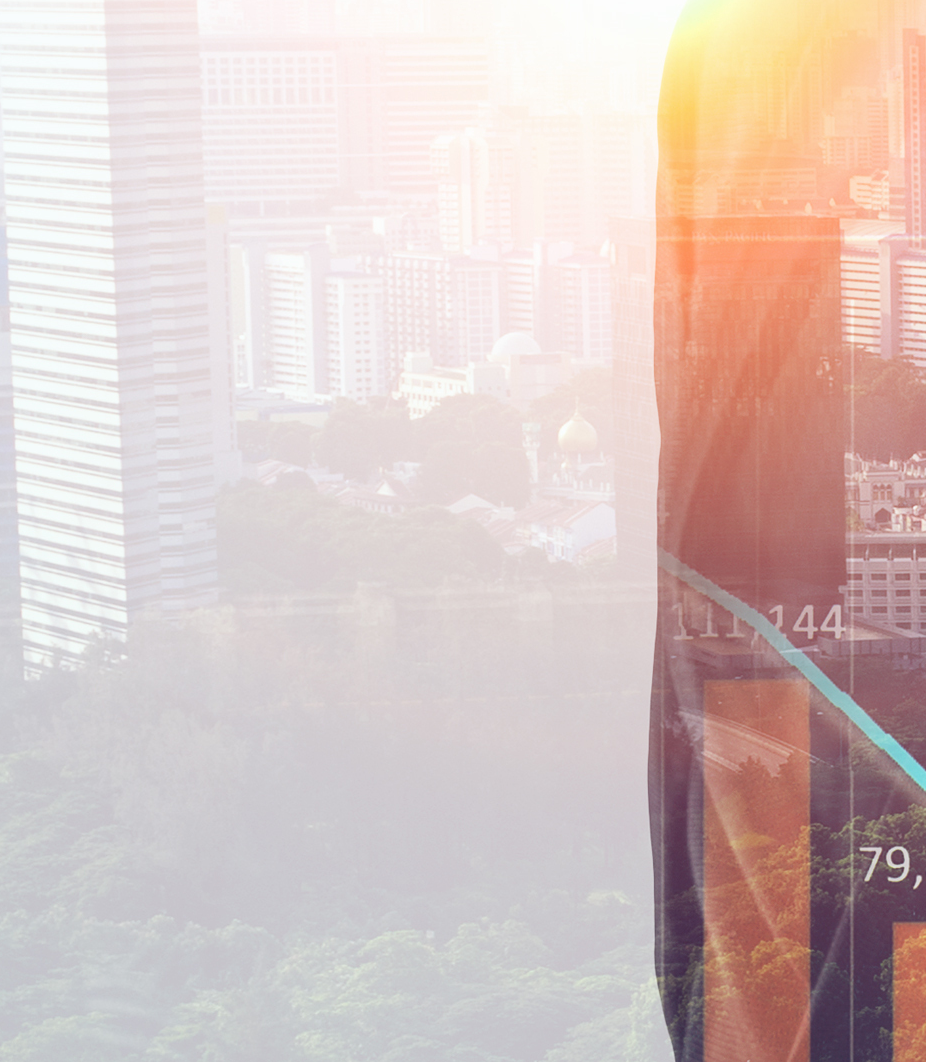
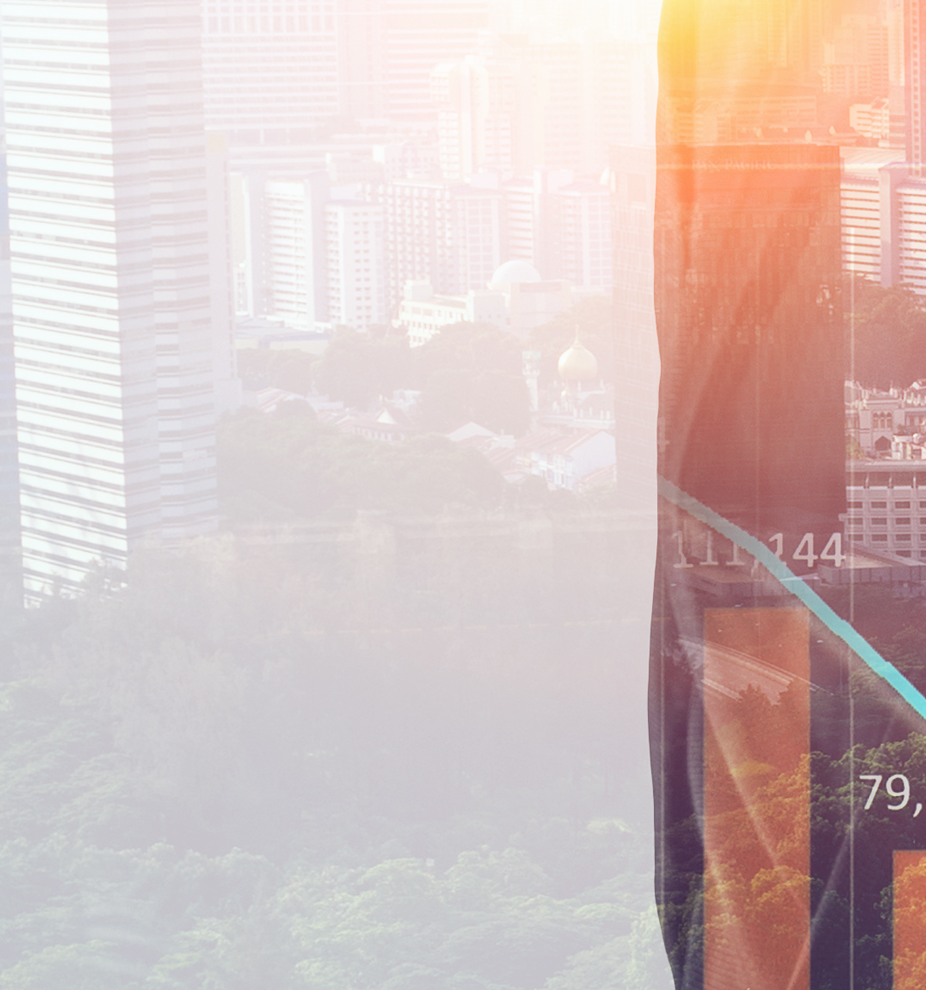
kropovane slike 1.png 2.png 3.png

diff --git a/public/assets/css/style.css b/public/assets/css/style.css
@@ -1070,6 +1070,7 @@ button.orange_btn:hover {
     height: 580px;
     padding-top: 150px;
     background-image: url('../../images/web/pen-testing-bg-image.jpg');
+    background-attachment: fixed;
     background-repeat: no-repeat;
     background-position: center;
     background-size: cover;

diff --git a/resources/views/inc/header.blade.php b/resources/views/inc/header.blade.php
@@ -70,7 +70,7 @@
                                         <ul>
                                             <p>COMPANY OVERVIEW</p>
                                             <li><a href="#">Why Us?</a></li>
-                                            <li><a href="#">Careers</a></li>
+                                            <li><a href="/careers">Careers</a></li>
                                             <li><a href="/contact">Contact</a></li>
                                             <li><a href="#">Office Locations</a></li>
                                         </ul>
@@ -98,9 +98,9 @@
                                     <div class="dropdown-menu">
                                         <ul>
                                             <!-- <p>PRODUCTS</p> -->
-                                            <li><a href="#">Blog</a></li>
+                                            <li><a href="/blog">Blog</a></li>
                                             <li><a href="#">Reports</a></li>
-                                            <li><a href="#">F&Q</a></li>
+                                            <li><a href="/faq">F&Q</a></li>
                                             <li><a href="#">Case Studies</a></li>
                                         </ul>
                                         <ul>
